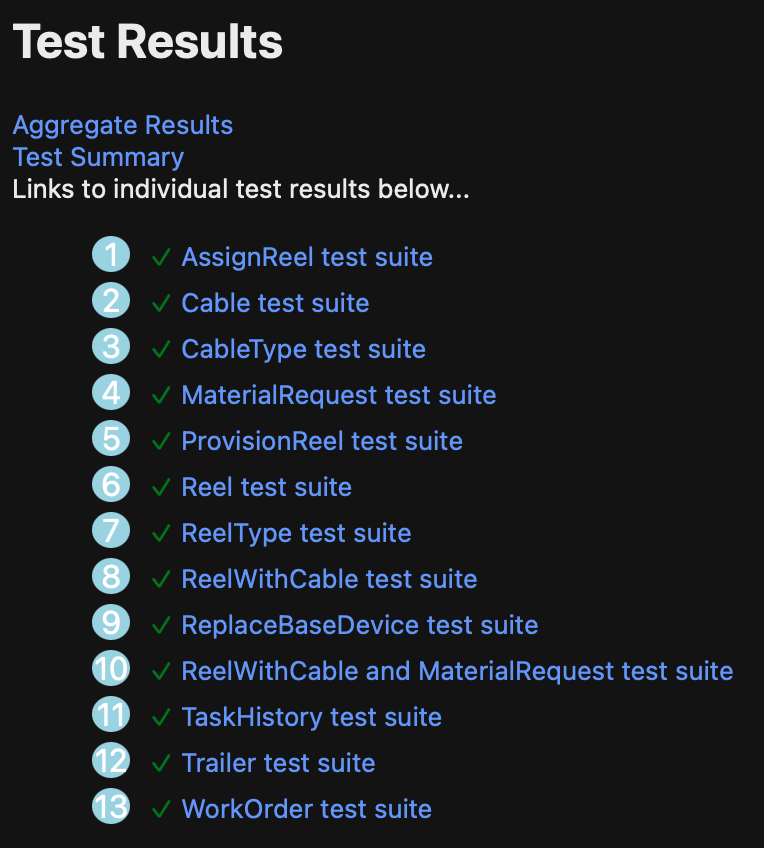
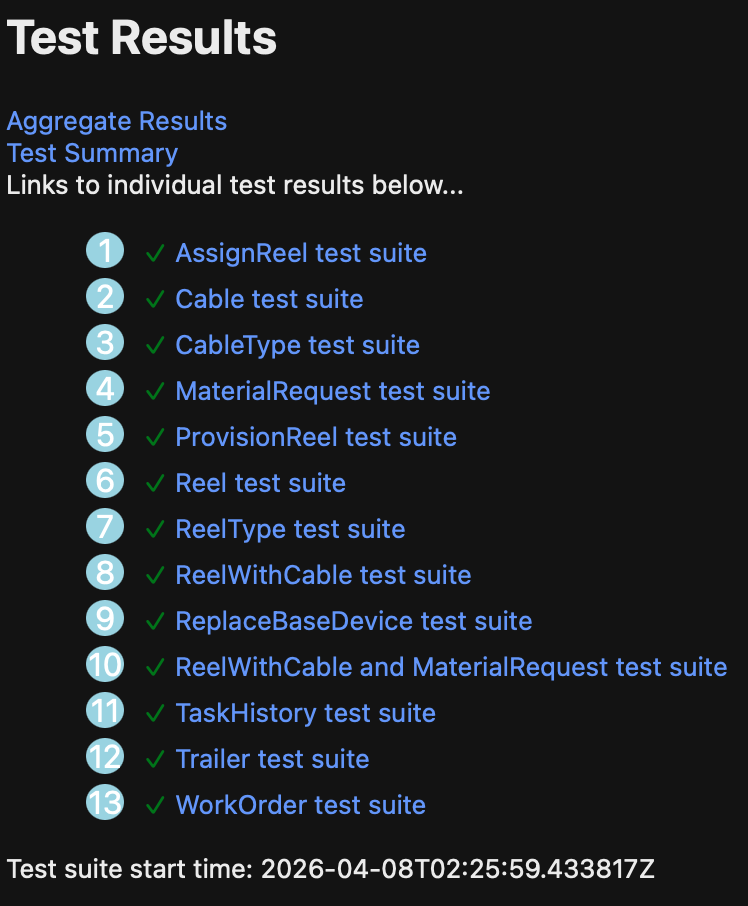
Update catch html reporter with suite start time.

Changed region(s): [[0.0, 0.1226, 0.984, 0.9811], [0.0, 0.0, 0.369, 0.092]]

diff --git a/Writerside/topics/Catch2-HTML-Reporter.md b/Writerside/topics/Catch2-HTML-Reporter.md
@@ -27,6 +27,7 @@ is done only after the test suite has completed.
       suites.reserve( 16 );
       seed = Catch::getSeed();
       start = std::chrono::high_resolution_clock::now();
+      startTime = std::chrono::system_clock::now();
     }
 ```
 
@@ -149,6 +150,7 @@ You can view the full source code for the [reporter](https://gist.github.com/spt
       suites.reserve( 16 );
       seed = Catch::getSeed();
       start = std::chrono::high_resolution_clock::now();
+      startTime = std::chrono::system_clock::now();
     }
     ]]>
     </code-block>
@@ -306,7 +308,7 @@ You can view the full source code for the [reporter](https://gist.github.com/spt
         stats.totals.assertions.skipped, stats.totals.assertions.total() );
 
       std::println( "\033[1;34m  Duration - \033[0m\033[1m{} \033[0m\033[1;34mseconds\033[0m", std::chrono::duration_cast<std::chrono::duration<double>>( std::chrono::high_resolution_clock::now() - start ).count() );
-      phr::generate( suites, "test-results" );
+      phr::generate( suites, "test-results", startTime );
     }
     ]]>
     </code-block>
